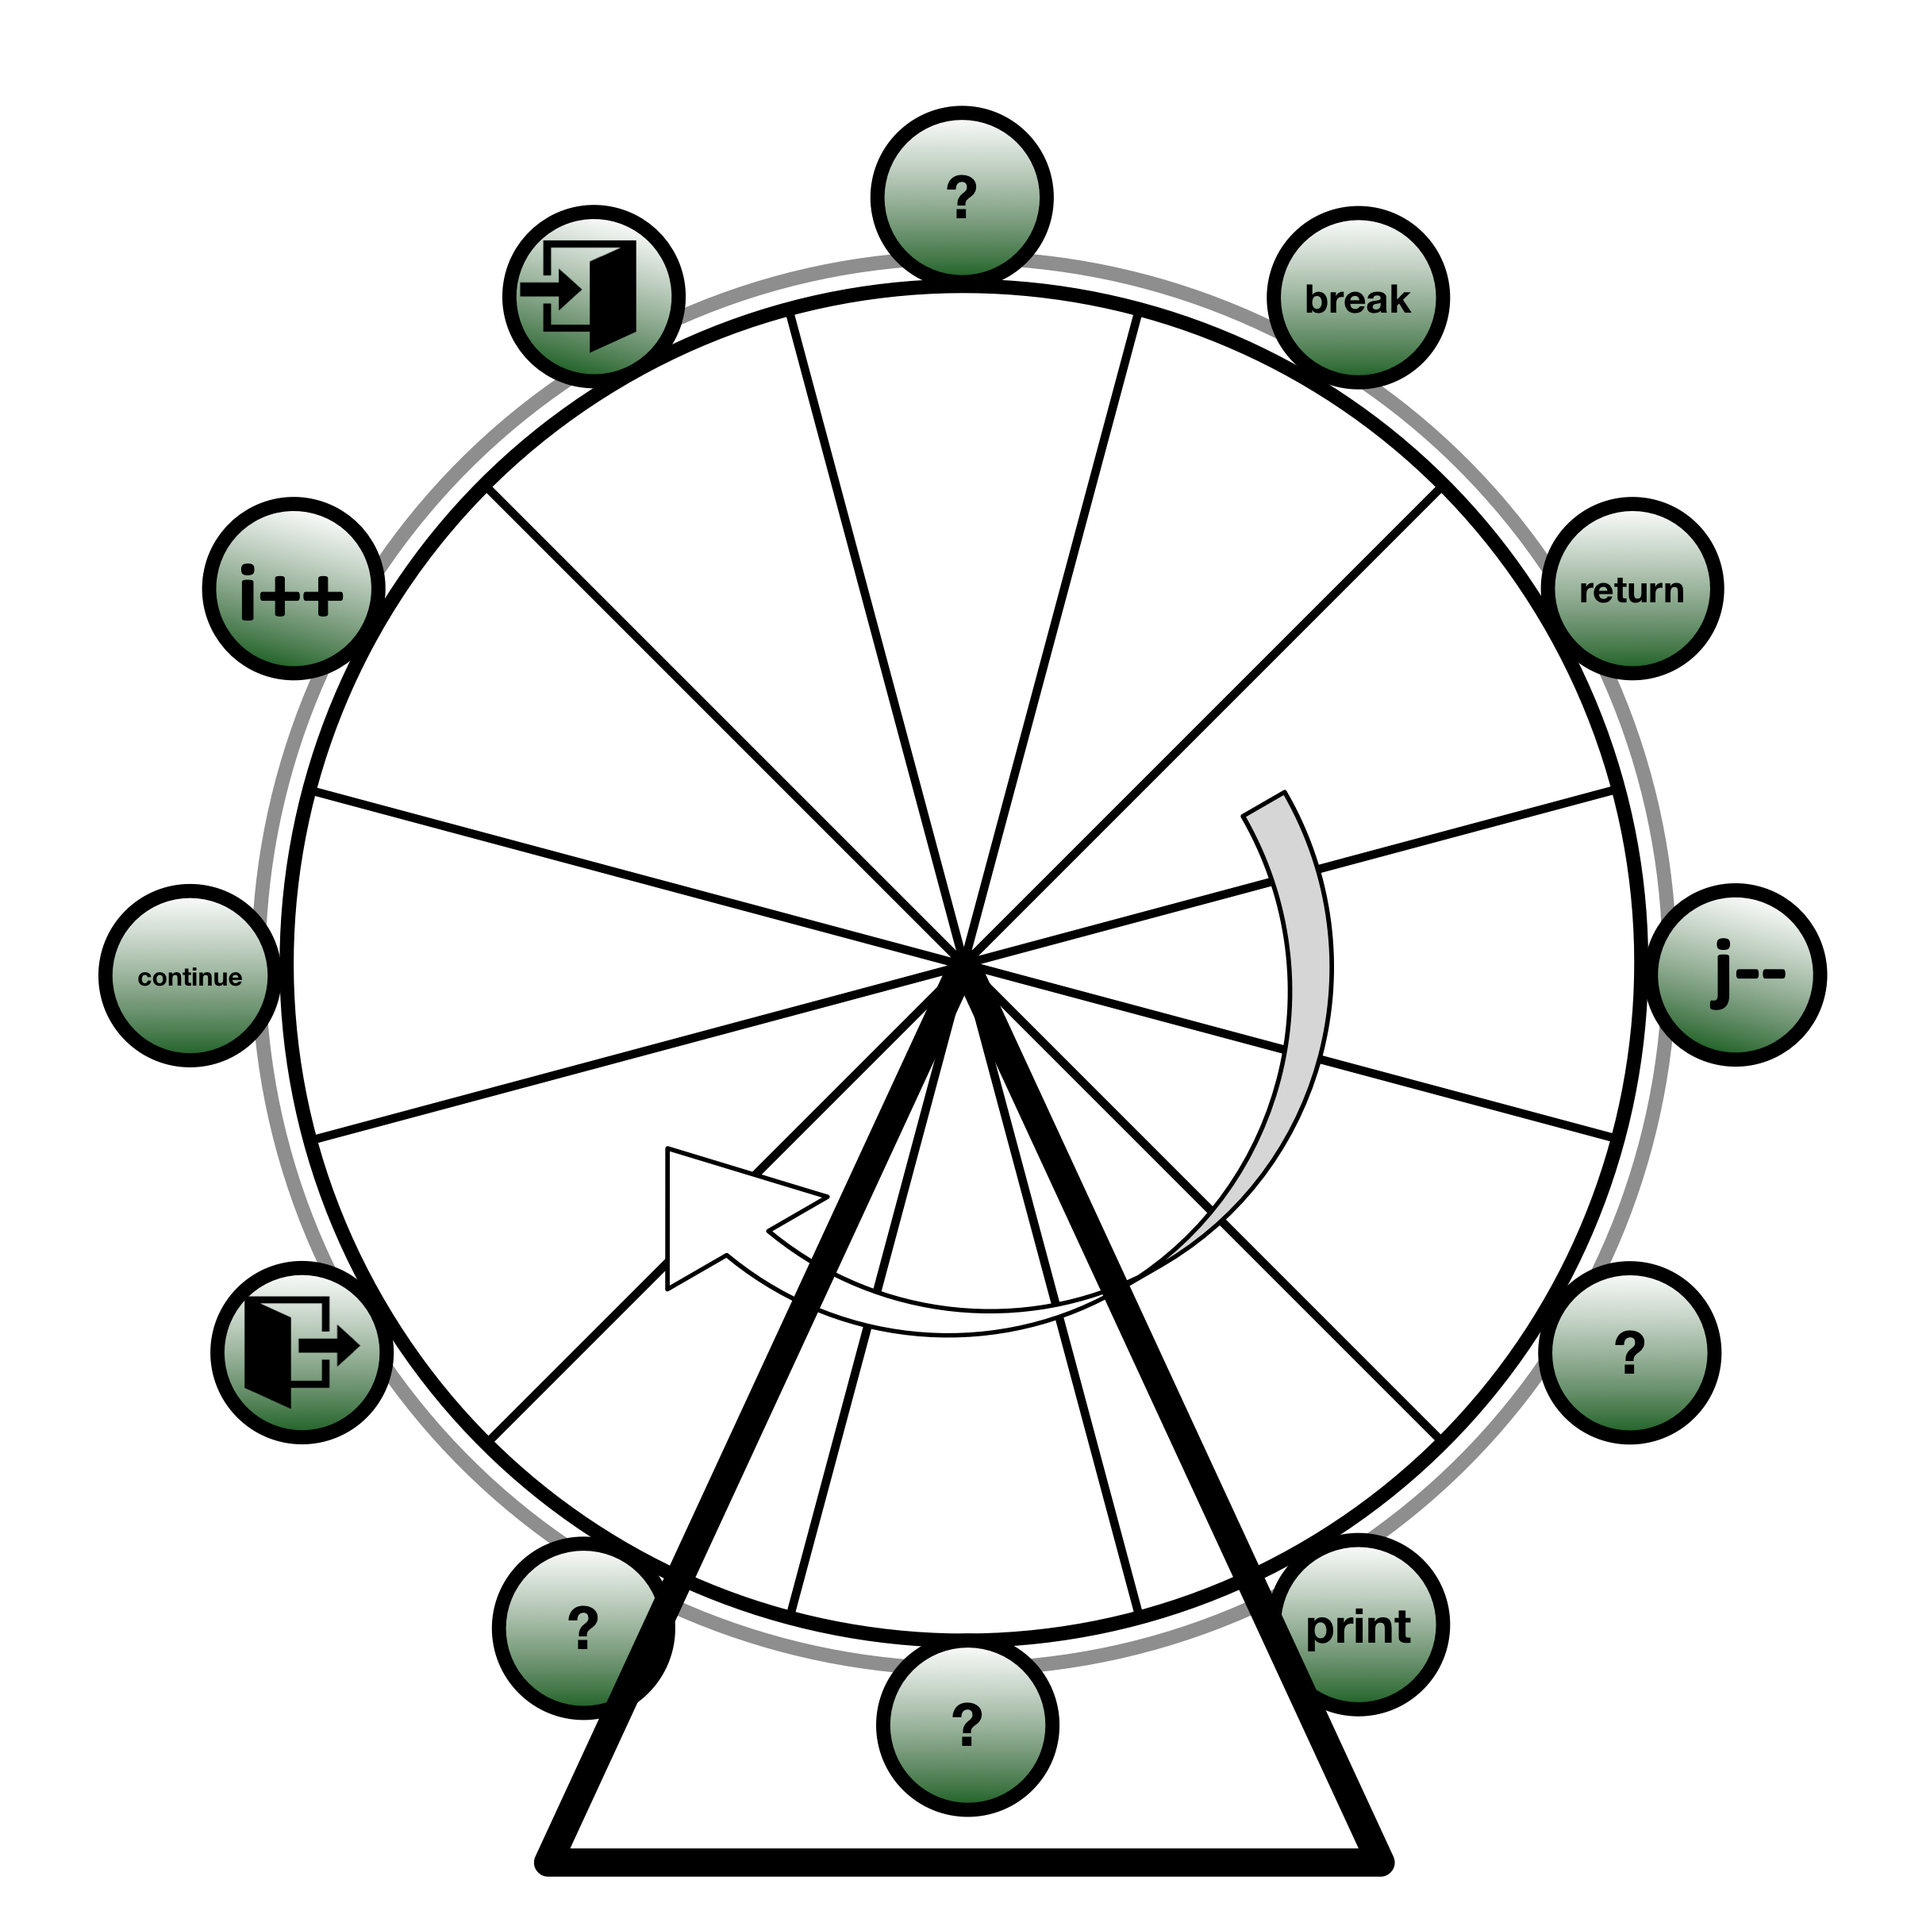
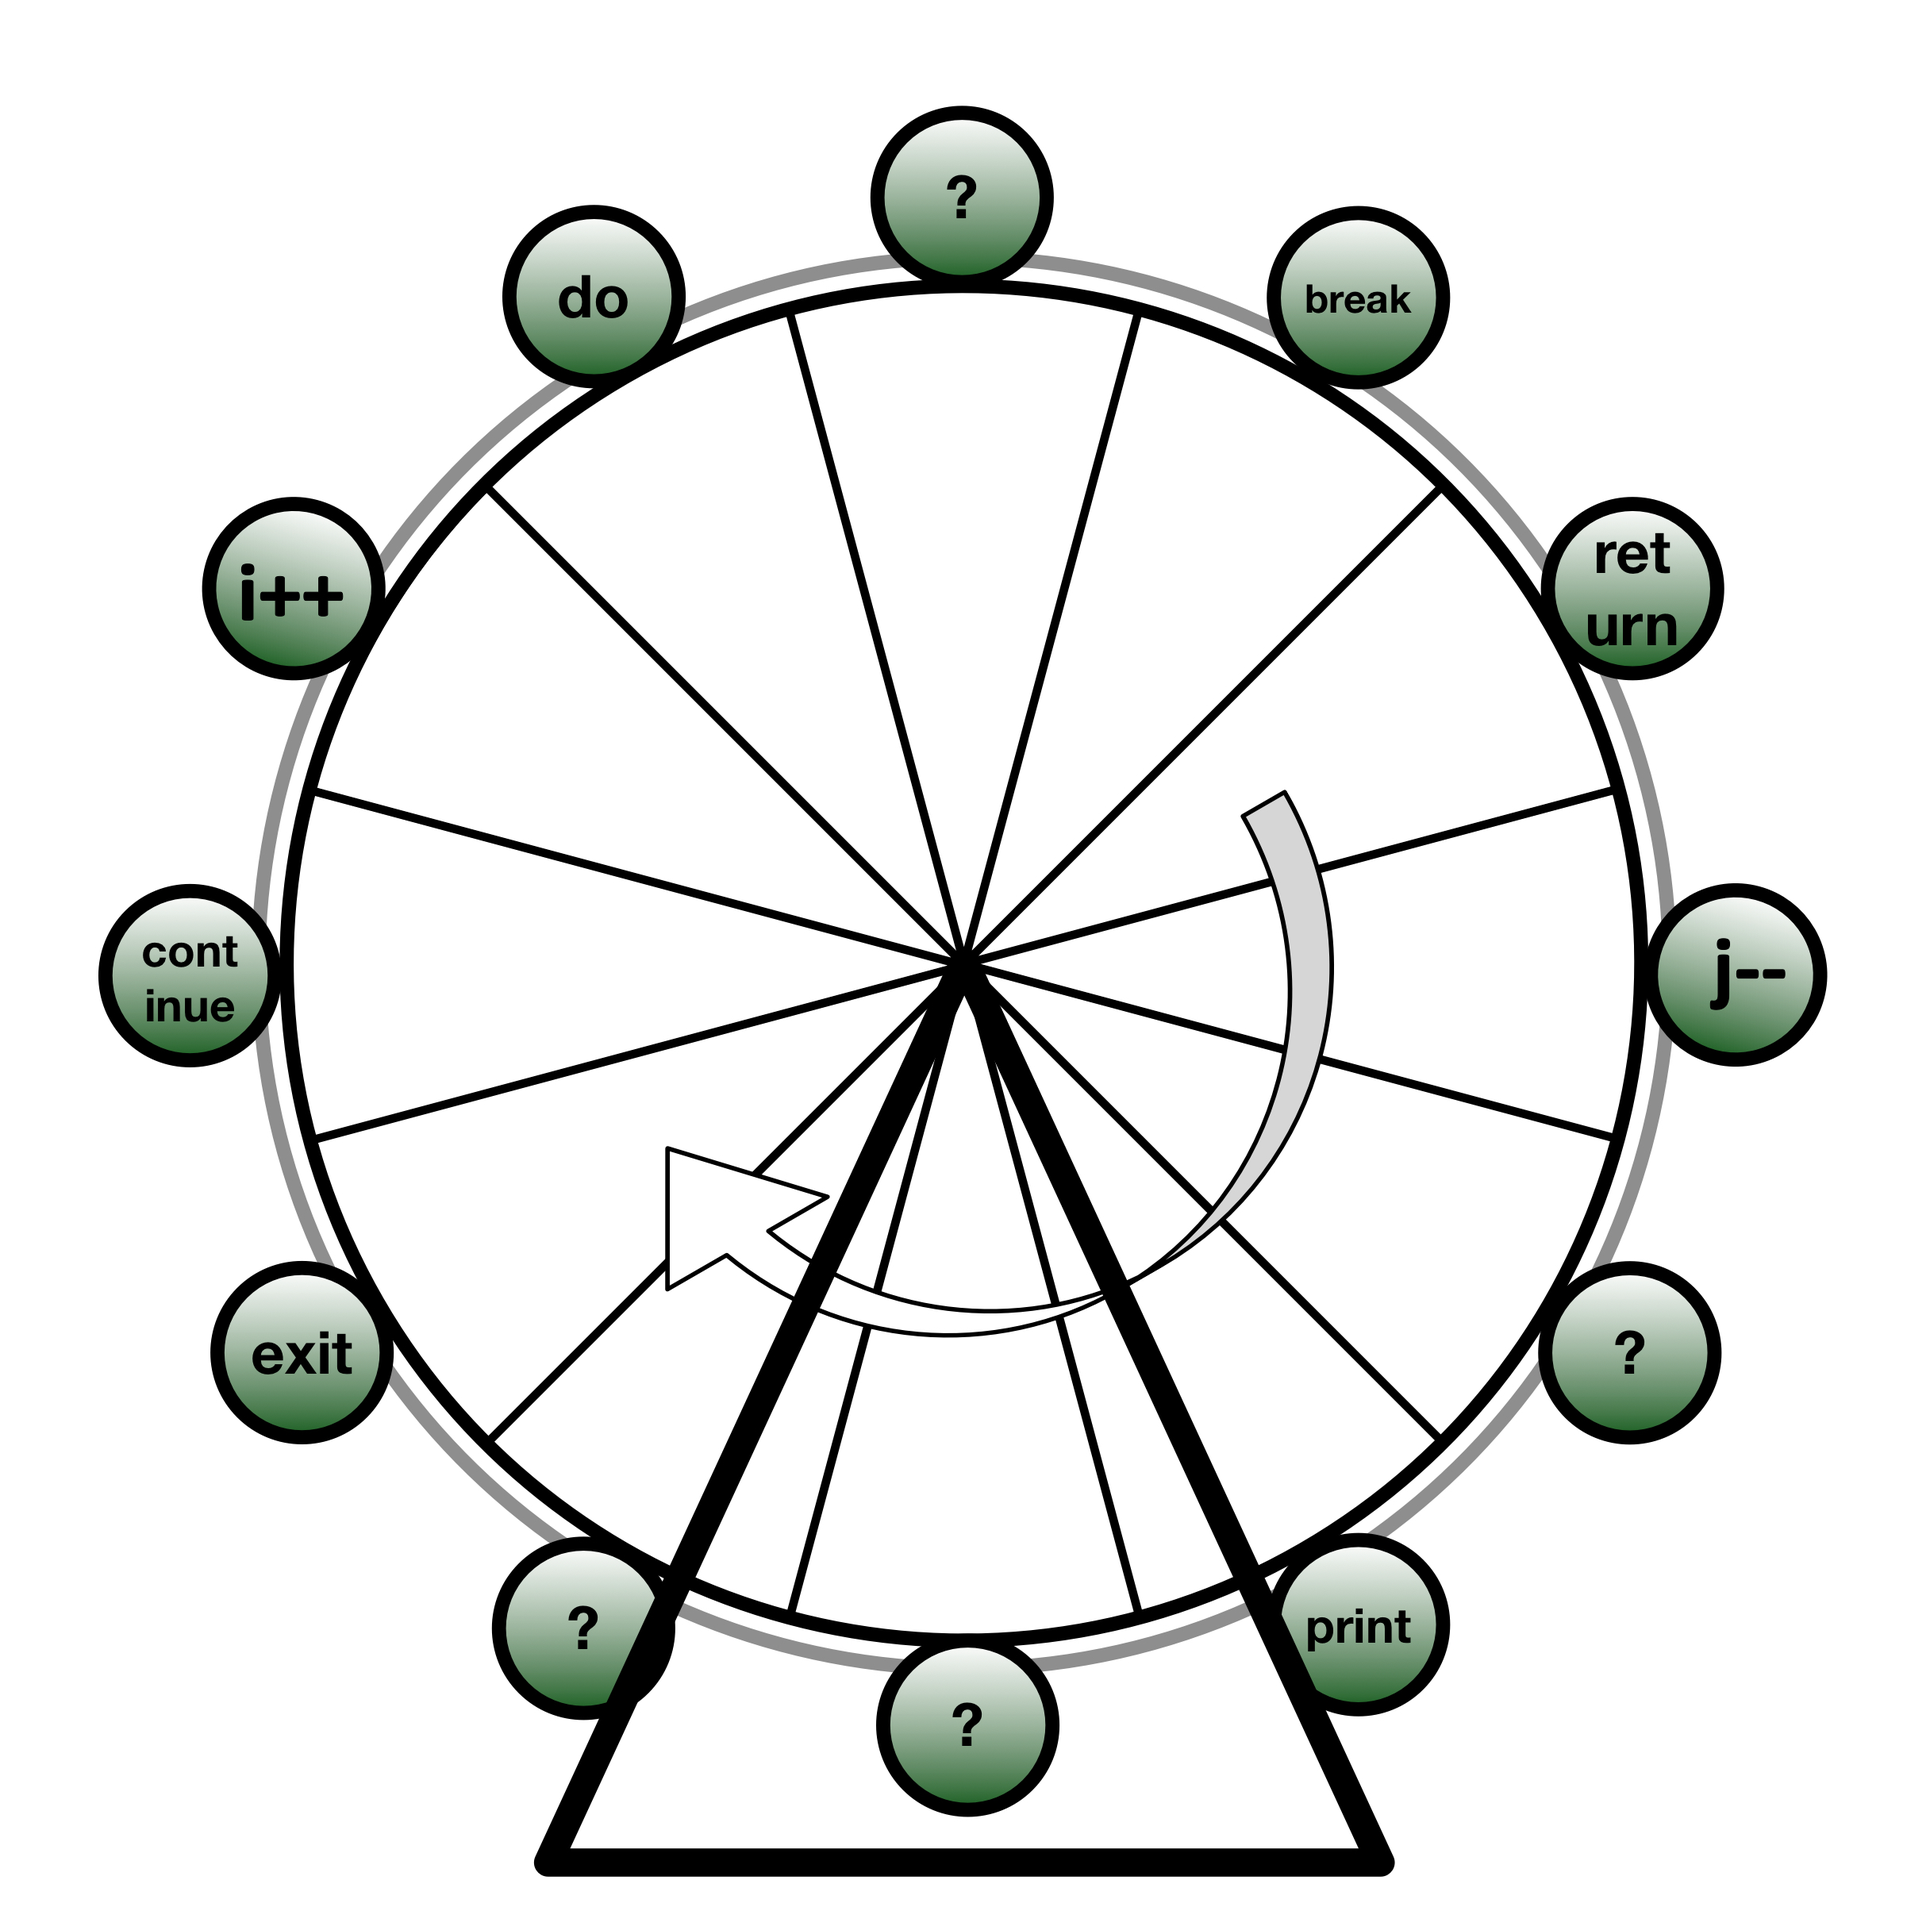
Rewrite the sections for-loop and get code in text

diff --git a/the-last-mile/loop/loop.tex b/the-last-mile/loop/loop.tex
@@ -112,47 +112,41 @@ that is a closest match to your programming requirement so as to minimize loop c
 
 These words may sound blurry and abstract to you.
 So let us use examples to illustrate the ideas.
-Say a particular bank allows customers to invest in stocks with their bank accounts.
-The rule is that one is allowed to invest if and only if his balance is > zero.
-Then for a particular account \code{accnt}, the program would look like
-\begin{lstlisting}
-    while(accnt.balance > 0) {
-    accnt.invest();
-    }
-\end{lstlisting}
+Feel free to pause and give them a thought yourself before reading my suggested approaches.
 
+Say, a bank allows customers to invest in stocks with their bank accounts.
+The rule is that one is allowed to take unlimited `\code{invest()}' actions
+if and only if one's balance is greater than zero.
+Each action of investment may result in gain or loss which is applied back to the account.
+Then for a particular account, the program would look like
+\lstinputlisting{loop/pre_test_loop.java}
+To ensure the enforcement of policy, pre-test loop is used so that
+each investment action is subject to a balance check before execution.
 If the rule is changed such that one is allowed to invest if and only if his balance is > zero
-\emph{or if the customer doesn't have investment history (hasn't invested before)}.
+\emph{or if the customer doesn't have investment history (first time invester)}.
 We would refactor the above code as
-\begin{lstlisting}
-    while(accnt.balance > 0 || accnt.investmentHistory == null) {
-    accnt.invest();
-    }
-\end{lstlisting}
+\lstinputlisting{loop/pre_test_loop1.java}
 In either case, the pre-condition loop is the best fit.
-For another example, we are to develop a command line tool that takes input from \code{stdin}.
-The tool does a bunch of cool stuff with non-empty user inputs and terminates when user simply hits
-`return' key (in which case input string length is zero).
+
+For another example, suppose we are to develop a command line tool that takes input from
+\code{stdin}.
+The tool interprets user input and does a bunch of cool stuff.
+It terminates when user types `exit' or simply hits `return' key
+(in which case the input string is empty).
 Then the best loop construct for that would be mid-condition loop.
-\begin{lstlisting}
-    while(true) {
-    str = stdin.read();
-    if (str.isEmpty()) break;
-    cool_stuff(str);
-    }
-\end{lstlisting}
-For yet another example, a dice spinning game.
-One is allowed to spin a dice $n$ times and the maximum number he got is used for subsequent move.
-The most succinct code for that may be
-\begin{lstlisting}
-    maxSpin = 0
-    do {
-    maxSpin = max(maxSpin, spinDice());
-    } while ();
-\end{lstlisting}
+\lstinputlisting{loop/mid_test_loop.java}
+
+For yet another example, in a cooking competition game, each chef is to cook 3-dish
+meal---appetizer, main, and desert---with the following rules:
+\begin{enumerate}
+    \item He or she first makes one as a display dish.
+    \item she then goes on to make same dishes for each referee who orders her meal for judgement
+    until all orders are finished.
+\end{enumerate}
+This program is best coded with \code{do-while} loop as
+\lstinputlisting{loop/post_test_loop.java}
 
 
-\subsection{Loop class I: Pre-condition}\label{subsec:pre-conditionLoop}
 % TODO illustrate use of different loop constructs with chicken-and-egg problem.
 % Given a chicken or an egg and the functions chicken hatch(egg), egg lay(chicken)
 % while(eggs) {
@@ -167,13 +161,7 @@ The most succinct code for that may be
 % } while(eggs);
 %
 
-Pre-condition loop is the simplest loop and amongst them, for example \code{while}-loop (see
-~\autoref{lst:while-loop}).
-
-\begin{minipage}{\linewidth}
-    \lstinputlisting[label={lst:while-loop},
-    caption={Pre-condition while loop structure.}]{loop/while_loop.java}
-\end{minipage}
+\subsection{C-style For-loop}\label{subsec:for-loop}
 
 Another form of pre-condition loop is the conventional C-like \code{for}-loop as in
 ~\autoref{lst:for-loop}.
@@ -205,47 +193,48 @@ Questions to ask and answer
     caption={For loop structure as a pre-condition.}]{loop/for_loop.java}
 \end{minipage}
 
-There are some interesting aspects about for-loop.
-The \code{<init>} is a statement to be executed only once before control enters the loop.
-The \code{<condition>} may be regarded as the \emph{first} statement of loop body.
-The \code{<condition>} are always executed one more time than the rest of loop body
-unless there are break or continue statements inside.
-The \code{<post-stmt>} is the \emph{last} statement of for-loop body.
-and
-The \code{<post-stmt>} is always executed as many times as the rest of loop body even when there
-are \code{continue} in the loop body.
-But when \code{break} statements are there, the \code{<post-stmt>} will be skipped.
+There are some interesting aspects about for-loop header statements.
+\begin{enumerate}
+    \item The \code{<init>} is a statement to be executed only once as control is transferred to
+    the loop.
+    \item The \code{<condition>} may be regarded as the \emph{first} statement of the loop body.
+    \item The \code{<condition>} are executed one more time than the rest of loop body
+    unless loop is terminated with a \code{break} statement.
+    \item The \code{<aftrtht>} is the afterthought statement executed at the end of each
+    round, unless loop terminates with a \code{break} statement.
+    \item The \code{<aftrtht>} is always executed as many times as the rest of loop body
+    even in the presence of \code{continue}.
+    \item All three header statements are optional.
+    Namely, you may legally code `\code{for(;;);'} for infinite loop.
+\end{enumerate}
 
 
-I like for-loop for the limited scope of its loop-variables.
-But I like to start with \code{while ( true )} or \code{for (; ; )} for prototyping.
-Once I get a better idea for the implementation, I will settle down to the best fit.
+Another desirable feature of \code{for}-loop is its containment---
+scope of loop-variables are restrained within the loop.
+For example the following code wouldn't compile
+\begin{lstlisting}
+    for (int i = 0; i < 10; ++i);
+    System.out.println(i); // i is undefined
+\end{lstlisting}
+In contrast, loop variables used by the \code{while}-loop condition have to be declared
+outside of the loop and extends beyond thereafter.
+Sometimes this causes inadvertent namespace pollution that leads to treacherous bugs.
+
+The most important thing when programming loops, just as any other part of coding, is to
+first have a working version with any loop type in hand and then experiment with rotating the loop,
+try on different types, move the header statements around in \code{for}-loop, \textit{etc}.
+To remind myself that my code is temporary, I often
+start with \code{while ( true )} or \code{for (; ; )} for prototyping.
+Once that is working, I often have gotten a good grasp for the implementation.
+Then I will start to pick among viable loop constructs best fits and settle down on one.
 
 %TODO make figure
 
-\subsection{Loop class II: Mid-condition loop}\label{subsec:mid-conditionLoop}
-
-There is rarely any construct that directly support mid-condition loop \textit{per se}.
-Combining a \code{while (true)} with a conditional \code{break} is the closest approximation of a
-mid-condition loop (\autoref{lst:mid-condition-loop}).
-
-\begin{minipage}{\linewidth}
-    \lstinputlisting[label={lst:mid-condition-loop},
-    caption={Mid-condition loop structure.}]{loop/mid_condition_loop.java}
-\end{minipage}
-
-\subsection{Loop class III: Post-condition loop}\label{subsec:post-conditionLoop}
-
-The \code{do-while} loop featured in C, \cpp, or \java, but not \python, is a good example of
-post-condition loop (\autoref{lst:post-condition-loop}).
-
-\begin{minipage}{\linewidth}
-    \lstinputlisting[label={lst:post-condition-loop},
-    caption={Post-condition loop structure.}]{loop/post_condition_loop.java}
-    This is equivalent to
-    \lstinputlisting{loop/post_condition_loop_equivalent.java}
-    albeit duplicate code.
-\end{minipage}
+\lstinputlisting[]{loop/NQueen.java}
+\lstinputlisting[]{loop/NumberOfPath.java}
+\lstinputlisting[]{loop/iterative_graph_traversal.java}
+\lstinputlisting[]{loop/array_jumper.java}
+\lstinputlisting[]{loop/WildcardStringMatching.java}
 
 \section{The `\textit{loop-and-a-half}' problem}\label{sec:loop-and-a-half-Problem}
 

diff --git a/the-last-mile/loop/NQueens.java b/the-last-mile/loop/NQueens.java
@@ -46,7 +46,7 @@ public class NQueens {
         return result;
     }
 
-    //place ith queen to the next feasiable position or 0 if none found
+    //place ith queen to the next feasible position or 0 if none found
     //v = 1 + max_position
     void feasiblePlace(int[] board, int i, int v){
         for(board[i] = (board[i] + 1) % v; board[i] != 0; board[i] = (board[i] + 1) % v){

diff --git a/the-last-mile/loop/mid_test_loop.java b/the-last-mile/loop/mid_test_loop.java
@@ -1,0 +1,6 @@
+String str = "";
+while(true) {
+    str = stdin.read();
+    if (str.isEmpty()) break;
+    cool_stuff(str);
+}

diff --git a/the-last-mile/loop/for_loop.java b/the-last-mile/loop/for_loop.java
@@ -1,3 +1,3 @@
-for (<init>; <condition>; <post-stmt>) {
+for (<init>; <condition>; <aftrtht>) {
     <body>
 }

diff --git a/the-last-mile/loop/post_test_loop.java b/the-last-mile/loop/post_test_loop.java
@@ -1,0 +1,5 @@
+do {
+    cookAppetizer();
+    cookMainCourse();
+    cookDesert();
+} while (refereeOrder());

diff --git a/the-last-mile/loop/pre_test_loop1.java b/the-last-mile/loop/pre_test_loop1.java
@@ -1,0 +1,3 @@
+while(accnt.balance > 0 || accnt.investmentHistory == null) {
+    accnt.invest();
+}

diff --git a/the-last-mile/loop/pre_test_loop.java b/the-last-mile/loop/pre_test_loop.java
@@ -1,0 +1,3 @@
+while(balance > 0) {
+    invest();
+}
